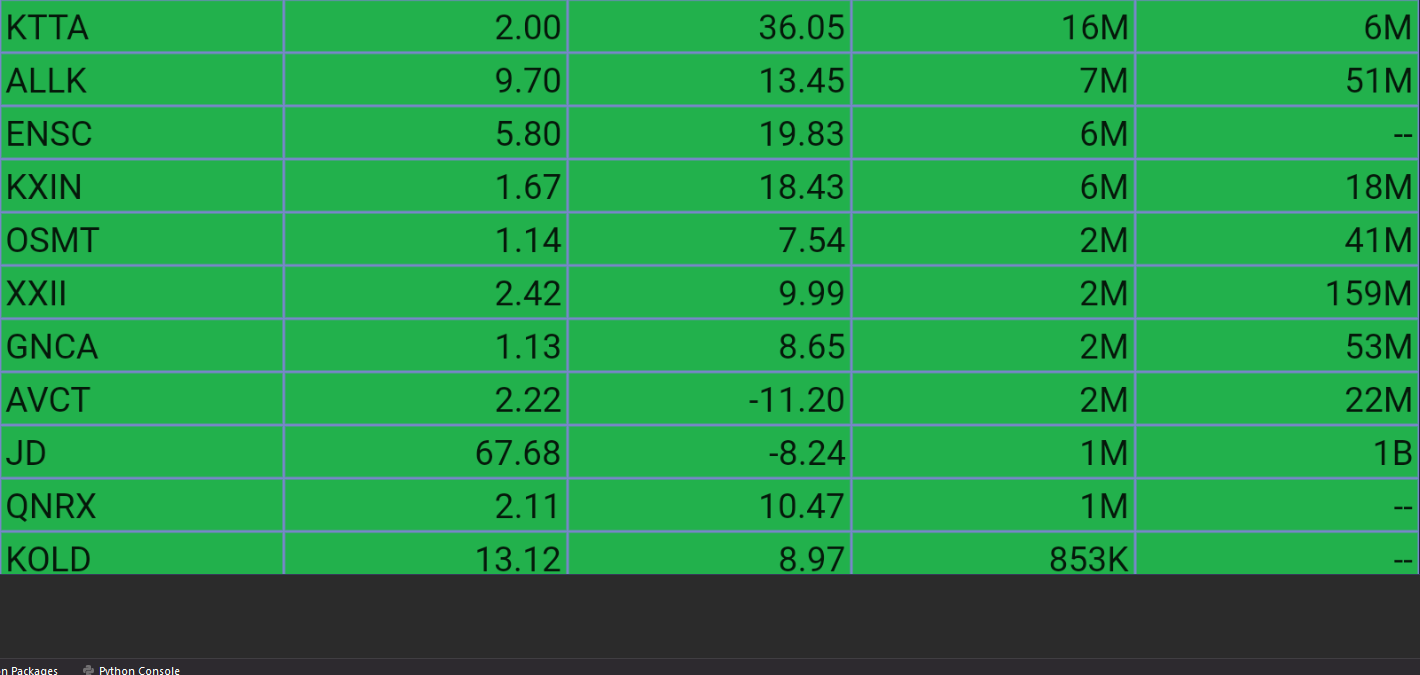
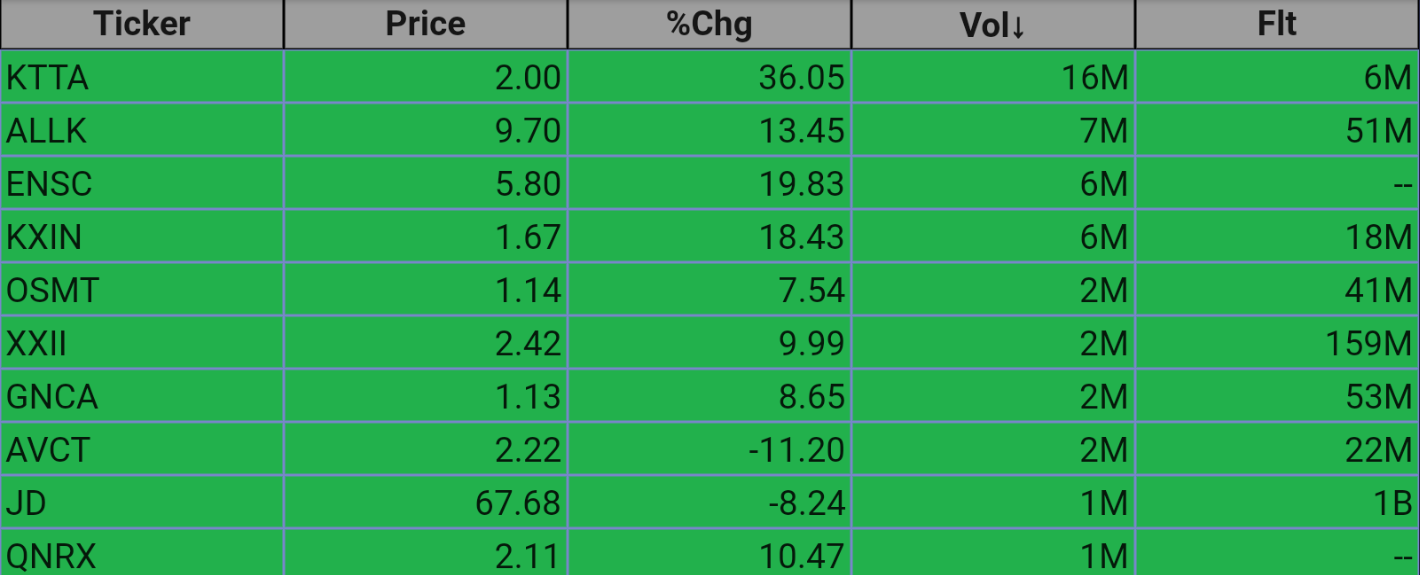
Add files via upload

diff --git a/Tesseract.py b/Tesseract.py
@@ -7,74 +7,89 @@ import pytesseract
 import cv2
 import pandas as pd
 
-def value_to_float(x):
-    if type(x) == float or type(x) == int:
-        return x
-    if 'K' in x:
-        if len(x) > 1:
-            return float(x.replace('K', '')) * 1000
-        return 1000.0
-    if 'M' in x:
-        if len(x) > 1:
-            return float(x.replace('M', '')) * 1000000
-        return 1000000.0
-    if 'B' in x:
-        if len(x) > 1:
-            return float(x.replace('B', '')) * 1000000000
-        return 1000000000.0
-    if 'T' in x:
-        if len(x) > 1:
-            return float(x.replace('T', '')) * 1000000000000
-        return 1000000000000000.0
+class Tesseract_Driver():
 
-    return 0.0
+    def get_percent(self, first, second):
+        percent = first / second * 100
+        return percent
 
-tickers = []
-prices = []
-changes = []
-volumes = []
-floats = []
+    def value_to_float(self, x):
+        if type(x) == float or type(x) == int:
+            return x
+        if 'K' in x:
+            if len(x) > 1:
+                return float(x.replace('K', '')) * 1000
+            return 1000.0
+        if 'M' in x:
+            if len(x) > 1:
+                return float(x.replace('M', '')) * 1000000
+            return 1000000.0
+        if 'B' in x:
+            if len(x) > 1:
+                return float(x.replace('B', '')) * 1000000000
+            return 1000000000.0
+        if 'T' in x:
+            if len(x) > 1:
+                return float(x.replace('T', '')) * 1000000000000
+            return 1000000000000000.0
 
-pytesseract.pytesseract.tesseract_cmd = r'C:\Program Files\Tesseract-OCR\tesseract.exe'
+        return 0.0
 
-image = cv2.imread(r'test.png')
+    def return_df(self):
 
-gray_image = cv2.cvtColor(image, cv2.COLOR_BGR2GRAY)
+        tickers = []
+        prices = []
+        changes = []
+        volumes = []
+        floats = []
+        volume_float_ratios = []
 
-threshold_img = cv2.threshold(gray_image, 0, 255, cv2.THRESH_BINARY | cv2.THRESH_OTSU)[1]
+        pytesseract.pytesseract.tesseract_cmd = r'C:\Program Files\Tesseract-OCR\tesseract.exe'
 
-data = pytesseract.image_to_string(threshold_img, lang='eng',config='--psm 6')
+        image = cv2.imread(r'test.png')
 
-lines = data.split("\n")
+        gray_image = cv2.cvtColor(image, cv2.COLOR_BGR2GRAY)
 
-df = pd.DataFrame()
+        threshold_img = cv2.threshold(gray_image, 0, 255, cv2.THRESH_BINARY | cv2.THRESH_OTSU)[1]
 
-for line in lines:
+        data = pytesseract.image_to_string(threshold_img, lang='eng', config='--psm 6')
 
-    ticker = line.split()[0]
-    price = line.split()[1]
-    change = line.split()[2]
+        lines = data.split("\n")
+        lines.pop(0)
 
-    volume = line.split()[3]
+        df = pd.DataFrame()
 
-    volume = value_to_float(volume)
+        for line in lines:
 
-    stock_float = line.split()[4]
-    stock_float = value_to_float(stock_float)
+            ticker = line.split()[0]
+            price = line.split()[1]
+            change = line.split()[2]
 
-    tickers.append(ticker)
-    prices.append(price)
-    changes.append(change)
-    volumes.append(volume)
-    floats.append(stock_float)
+            volume = line.split()[3]
 
-df['Ticker'] = tickers
-df['Price'] = prices
-df['Change'] = changes
-df['Volume'] = volumes
-df['Float'] = floats
+            volume = self.value_to_float(volume)
 
-print(df)
+            stock_float = line.split()[4]
+            stock_float = self.value_to_float(stock_float)
+
+            volume_float_ratio = self.get_percent(volume, stock_float)
+
+            tickers.append(ticker)
+            prices.append(price)
+            changes.append(change)
+            volumes.append(volume)
+            floats.append(stock_float)
+            volume_float_ratios.append(volume_float_ratio)
+
+        df['Ticker'] = tickers
+        df['Price'] = prices
+        df['Change'] = changes
+        df['Volume'] = volumes
+        df['Float'] = floats
+        df['Volume / Float Ratio'] = volume_float_ratios
+
+        return df
+
 
 
 

diff --git a/Premarket.py b/Premarket.py
@@ -1,55 +1,25 @@
-# scrape premarket data from somewhere
-
-# scrape all tickers with less than 20m float from FinViz
-
-# filter FinViz data to stocks that have short interest of 10% or more
-
-# check premarket data against list of scraped FinViz tickers
-
-# match all tickers from scraped FinViz and premarket data
-
-# remove all tickers if premarket volume is less than 150k by 9 AM
-
-# scrape news from FinViz for remaining tickers
-
-# send results to your phone using PushBullet
-
-
 import yfinance as yf
+import time
 
-data = yf.download(  # or pdr.get_data_yahoo(...
-        # tickers list or string as well
-        tickers = "XXII",
+class Premarket_Driver():
 
-        # use "period" instead of start/end
-        # valid periods: 1d,5d,1mo,3mo,6mo,1y,2y,5y,10y,ytd,max
-        # (optional, default is '1mo')
-        period = "1d",
+        def loop_through_yfinance(self):
+                counter = 0
 
-        # fetch data by interval (including intraday if period < 60 days)
-        # valid intervals: 1m,2m,5m,15m,30m,60m,90m,1h,1d,5d,1wk,1mo,3mo
-        # (optional, default is '1d')
-        interval = "1m",
+                while True:
 
-        # group by ticker (to access via data['SPY'])
-        # (optional, default is 'column')
-        group_by = 'ticker',
+                        counter = counter + 1
 
-        # adjust all OHLC automatically
-        # (optional, default is False)
-        auto_adjust = True,
+                        data = yf.download(
+                                tickers = "XXII",
+                                period = "1d",
+                                interval = "1m",
+                                auto_adjust = True,
+                                prepost = True,
+                                threads = True,
+                                proxy = None
+                            )
 
-        # download pre/post regular market hours data
-        # (optional, default is False)
-        prepost = True,
+                        data.to_csv('data_' + str(counter) + '.csv')
 
-        # use threads for mass downloading? (True/False/Integer)
-        # (optional, default is True)
-        threads = True,
-
-        # proxy URL scheme use use when downloading?
-        # (optional, default is None)
-        proxy = None
-    )
-
-data.to_csv('data.csv')
+                        time.sleep(300)

diff --git a/PyAutoGUI.py b/PyAutoGUI.py
@@ -1,52 +1,42 @@
 import pyautogui
 import time
 
-def open_browser():
+class PyAutoGUI_Driver():
 
-    pyautogui.moveTo(510, 1057) # Move the mouse to XY coordinates.
-    pyautogui.click()
+    def open_browser(self):
 
-    pyautogui.moveTo(678, 62, duration=2)
-    pyautogui.click()
+        pyautogui.moveTo(510, 1057) # Move the mouse to XY coordinates.
+        pyautogui.click()
 
-    pyautogui.write('reddit.com', interval=0.15)
-    pyautogui.press('enter')
+        pyautogui.moveTo(678, 62, duration=2)
+        pyautogui.click()
 
-
-def screenshot_bluestacks():
-    pyautogui.moveTo(190, 1067)  # Move the mouse to XY coordinates.
-    pyautogui.click(duration=2)
-
-    pyautogui.write('realtimestockscreener', interval=0.15)
-
-    time.sleep(5)
-
-    pyautogui.moveTo(246, 556, duration=2)  # Move the mouse to XY coordinates.
-
-    pyautogui.click()
-
-    time.sleep(18)
-
-    # change = pyautogui.locateOnScreen('volume.png')
-
-    pyautogui.moveTo(1368, 310, duration=2)
-
-    pyautogui.click()
-
-    time.sleep(10)
-
-    im = pyautogui.screenshot(region=(370, 339, 1420, 575))
-
-    im.save('test.png')
+        pyautogui.write('reddit.com', interval=0.15)
+        pyautogui.press('enter')
 
 
+    def screenshot_bluestacks(self):
+        pyautogui.moveTo(190, 1067)  # Move the mouse to XY coordinates.
+        pyautogui.click(duration=2)
 
-screenWidth, screenHeight = pyautogui.size() # Get the size of the primary monitor.
-print(screenWidth, screenHeight)
+        pyautogui.write('realtimestockscreener', interval=0.15)
 
-# time.sleep(5)
+        time.sleep(5)
 
-currentMouseX, currentMouseY = pyautogui.position() # Get the XY coordinates of the mouse.
-print(currentMouseX, currentMouseY)
+        pyautogui.moveTo(246, 556, duration=2)  # Move the mouse to XY coordinates.
 
-screenshot_bluestacks()
+        pyautogui.click()
+
+        time.sleep(18)
+
+        # change = pyautogui.locateOnScreen('volume.png')
+
+        pyautogui.moveTo(1368, 310, duration=2)
+
+        pyautogui.click()
+
+        time.sleep(15)
+
+        im = pyautogui.screenshot(region=(370, 289, 1420, 575))
+
+        im.save('test.png')

diff --git a/Driver.py b/Driver.py
@@ -1,0 +1,17 @@
+import PyAutoGUI
+import Tesseract
+import Premarket
+
+pyAuto = PyAutoGUI.PyAutoGUI_Driver()
+tesseract = Tesseract.Tesseract_Driver()
+premarket = Premarket.Premarket_Driver()
+
+# tess
+
+pyAuto.screenshot_bluestacks()
+df = tesseract.return_df()
+
+print(df)
+
+premarket.loop_through_yfinance()
+
